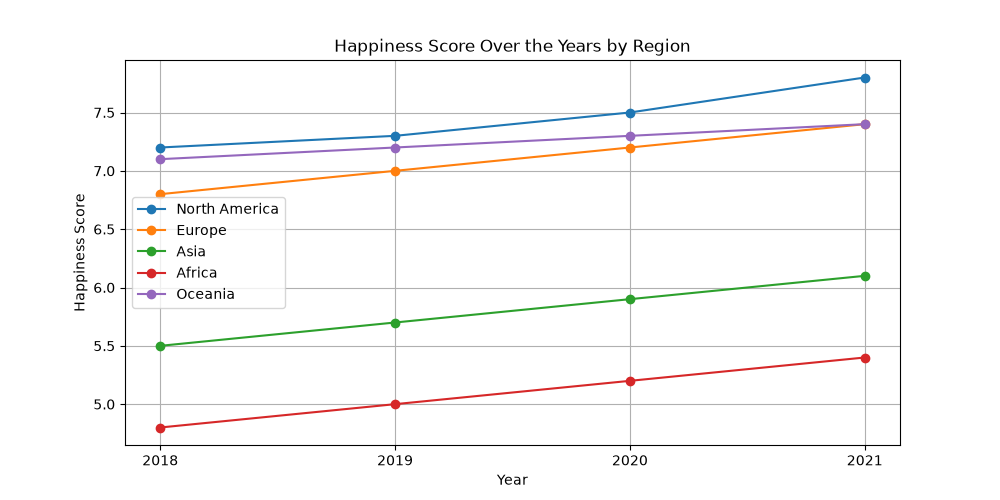
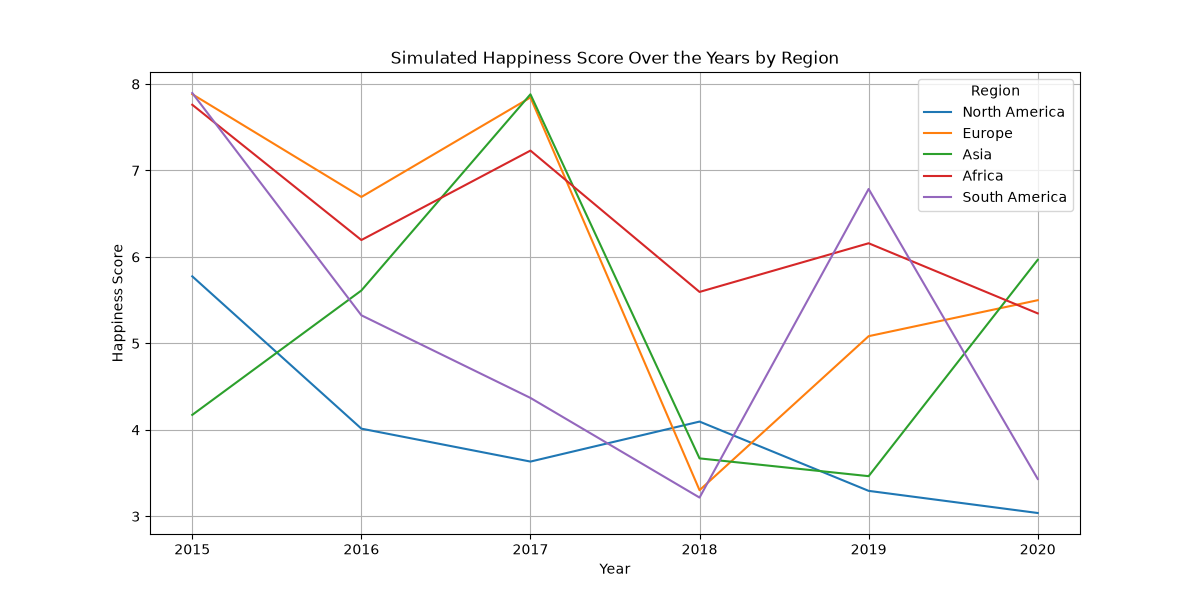
Made changes per feedback

diff --git a/assignments_07/warmup_07.py b/assignments_07/warmup_07.py
@@ -795,10 +795,10 @@ print(result)
 # Q6
 # ------------------------------------------------
 
-# Add a comment that identifies what each role (system, user, assistant, tool) represents in the ReAct loop.
+# Q6: ReAct message roles
 # system: Instructions, rules, and context that define how the agent should behave.
 # user: The user's input, question, or task given to the agent.
-# assistant: The agent's messages, including its reasoning/action requests and responses.
+# assistant: The agent's messages, including reasoning/action requests and responses.
 # tool: Messages containing tool calls or the results returned by tools.
 
 print(json.dumps(messages, indent=2, default=str))
@@ -982,22 +982,27 @@ print("\nCode Agent Response:\n", response_code)
 
 # Add a comment block answering:
 # What did each agent actually produce? Did the ToolCallingAgent change the dot color? Did the CodeAgent?
-# The ToolCallingAgent produced a plot that did not change the dot color; it used the default settings of the plot_data tool. 
-# The CodeAgent, on the other hand, produced a plot with green dots as requested, because it allowed for custom matplotlib code
-# to be executed.
+#
+# The ToolCallingAgent uses the predefined behavior of the available tools,
+# so it can only make changes that those tools support. A CodeAgent can
+# generate and execute custom Python code, so it can make additional changes
+# such as customizing the color of the dots.
 
 # What does this reveal about when each type of agent is more useful?
-# This reveals that the ToolCallingAgent is more useful for standard tasks that can be accomplished 
-# with predefined tools, while the CodeAgent is more useful for tasks that require customization 
-# or specific styling that the tools cannot provide. The CodeAgent allows for greater flexibility 
-# and control over the output, making it suitable for more complex or specific requests.
+#
+# This shows that a ToolCallingAgent is useful for well-defined tasks that
+# can be completed using existing tools. A CodeAgent is more useful when a
+# task requires customization, data manipulation, or functionality that is
+# not directly available through the predefined tools.
 
 # ------------------------------------------------
 # Q9
 # ------------------------------------------------
 
 # Add a comment block at the bottom of your warmup file answering both questions:
+#
 # 1.Describe a task where a ToolCallingAgent would be a better choice than a CodeAgent. 
+#
 # ToolCallingAgent would be a better choice for tasks that are well-defined and can be accomplished using 
 # existing tools without the need for customization. For example, if the task is to load a CSV file and 
 # compute basic summary statistics (like mean, median, and standard deviation) for specific columns, 
@@ -1005,15 +1010,18 @@ print("\nCode Agent Response:\n", response_code)
 
 
 # What property of the task makes it a good fit for a tool-based approach?
-# The property of the task that makes it a good fit for a tool-based approach is that it can be completed 
-# using predefined functions with clear inputs and outputs, minimizing the risk of errors and ensuring consistency.
+#
+# The task has clear inputs and outputs and can be completed using
+# predefined functions. It does not require the agent to create custom
+# Python code or customize the procedure.
 
 
 # 2.What is one meaningful risk of using a CodeAgent that does not apply to a ToolCallingAgent? 
-# (Think about what's actually happening when the agent generates and runs code.)
-# One meaningful risk of using a CodeAgent is the potential for code injection or execution of malicious code when it
-# custom generated codes are executed. It writes it own code, which could be exploited by attackers.This could lead to 
-# security vulnerabilities or data breaches. This risk is not present in a ToolCallingAgent, as it only calls existing 
-# tools with predefined parameters. It also has the power to save files, modify the environment, or access sensitive data, 
-# which could lead to unintended consequences if not properly controlled. For example in this case,it saved a plot graph file in 
-# a random location unlike ToolCallingAgent which would have saved it in a specified location. 
+#
+# A meaningful additional risk of a CodeAgent is that it can generate and
+# execute code dynamically. If the generated code is incorrect or unsafe,
+# it could perform unintended actions, such as modifying files or accessing
+# resources that the agent should not use. A ToolCallingAgent is more
+# constrained because it can only perform the actions exposed through its
+# predefined tools. This makes the CodeAgent more flexible, but also means
+# that its code execution capabilities need stronger controls.

diff --git a/assignments_07/project_07.py b/assignments_07/project_07.py
@@ -18,6 +18,7 @@ api_key = os.getenv("OPENAI_API_KEY")
 
 df = None
 DATA_PATH = Path("resources/merged_happiness.csv")
+FALLBACK_DATA_DIR = Path("resources/happiness_project/")
 
 os.makedirs("outputs/", exist_ok=True)
 
@@ -56,7 +57,7 @@ def load_happiness_data() -> dict:
         df = yearly_df
 
     else: 
-        data_dir = Path("resources/happiness_project/")
+        data_dir = Path(FALLBACK_DATA_DIR)
         all_files = list(data_dir.glob("world_happiness_*.csv"))
 
         if not all_files:
@@ -78,12 +79,11 @@ def load_happiness_data() -> dict:
                 yearly_df.columns
                 .str.strip()
                 .str.lower()
-                .str.replace(" ", "_")
+                .str.replace(" ", "_", regex=False)
             )
             
             year = file.split("_")[-1].replace(".csv", "")
             yearly_df["year"] = int(year)
-
 
             dataframes.append(yearly_df)
 
